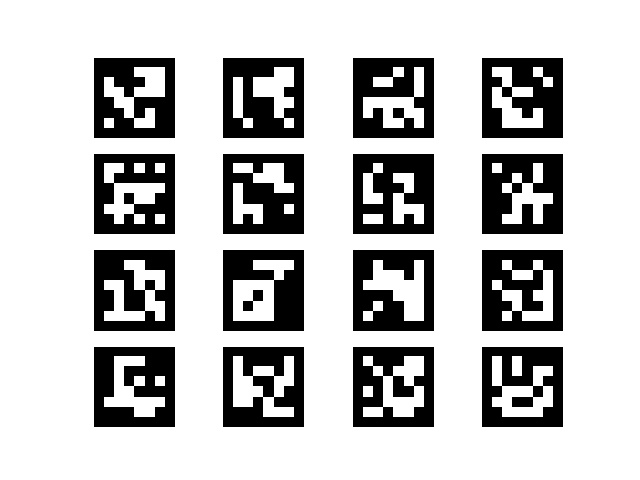
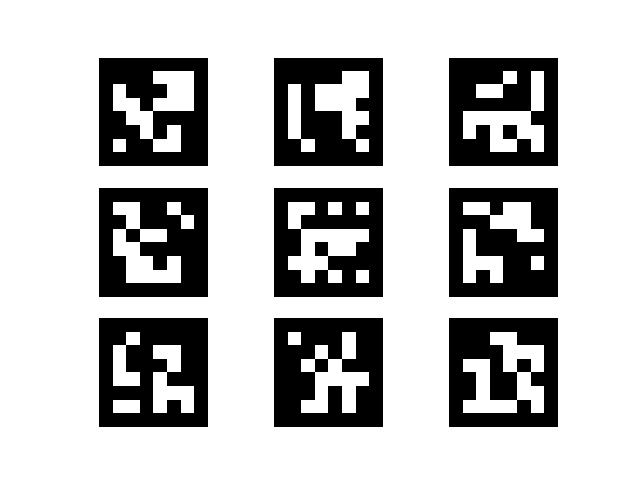
updated aruco

Changed region(s): [[0.125, 0.0938, 0.9062, 0.9062]]

diff --git a/aruco/detect_marker.py b/aruco/detect_marker.py
@@ -2,28 +2,24 @@
 
 import numpy as np
 import cv2
-import cv2.aruco as aruco
-
 
 cap = cv2.VideoCapture(0)
+
+marker_dict = cv2.aruco.Dictionary_get(cv2.aruco.DICT_6X6_100)
+parameters =  cv2.aruco.DetectorParameters_create()
+color = (0,0,255)
 
 while(True):
     ret, frame = cap.read()
 
     gray = cv2.cvtColor(frame, cv2.COLOR_BGR2GRAY)
 
-    aruco_dict = aruco.Dictionary_get(aruco.DICT_6X6_100)
+    corners, ids, rejectedImgPoints = cv2.aruco.detectMarkers(gray, marker_dict, parameters=parameters)
 
-    parameters =  aruco.DetectorParameters_create()
+    frame = cv2.aruco.drawDetectedMarkers(frame, corners, ids, color)
 
-    corners, ids, rejectedImgPoints = aruco.detectMarkers(gray, aruco_dict, parameters=parameters)
+    cv2.imshow('Video',frame)
 
-    if len(corners)>0 :
-        print(ids)
-
-    gray = aruco.drawDetectedMarkers(gray, corners)
-
-    cv2.imshow('frame',gray)
     if cv2.waitKey(1) & 0xFF == ord('q'):
         break
 

diff --git a/aruco/draw_markers_array.py b/aruco/draw_markers_array.py
@@ -3,19 +3,19 @@
 import numpy as np
 import cv2
 import matplotlib.pyplot as plt
-import matplotlib as mpl
+import matplotlib.cm as cm
 
 aruco_dict = cv2.aruco.Dictionary_get(cv2.aruco.DICT_6X6_100)
 
 fig = plt.figure()
 
-x = 4
-y = 4
+x = 3
+y = 3
 
 for i in range(0, x*y):
     ax = fig.add_subplot(y,x, i+1)
     img = cv2.aruco.drawMarker(aruco_dict,i, 320)
-    plt.imshow(img, cmap = mpl.cm.gray, interpolation = "nearest")
+    plt.imshow(img, cmap = cm.gray, interpolation = "nearest")
     ax.axis("off")
 
 plt.savefig("markers.jpeg")
